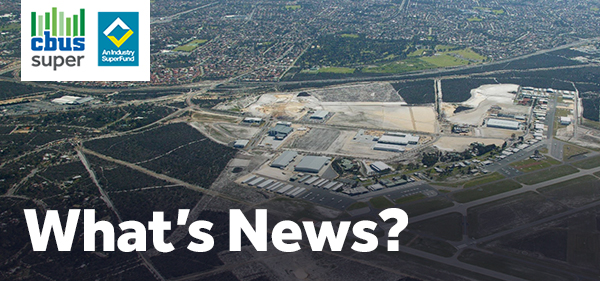
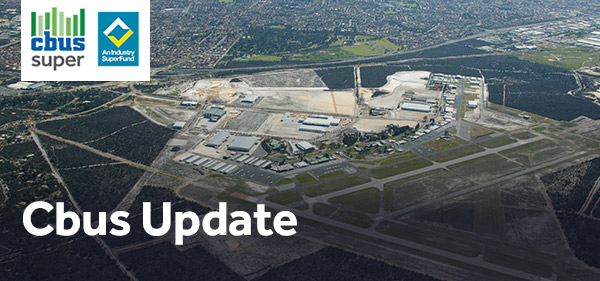
update cbus update

diff --git a/emails/2022/member-retention/ip-warming/index.html b/emails/2022/member-retention/ip-warming/index.html
@@ -49,14 +49,6 @@
 
   <table class="wrapper" style="border-collapse: collapse;table-layout: fixed;min-width: 320px;width: 100%;background-color: #e3e5e8;" cellpadding="0" cellspacing="0" role="presentation"><tbody><tr><td>
 
-  <div role="banner">
-      <!-- pre-header text -->
-      <div style="font-size:1px;line-height:1px;mso-line-height-rule:exactly;display:none;max-width:0px;max-height:0px;opacity:0;overflow:hidden;mso-hide:all;" >
-        Our new Cbus Chair, the Hon Wayne Swan...
-     </div>
-</div>
-
-
 
 <!-- ### START: INTRO BLOCK ### -->
     <div class="layout one-col fixed-width stack" style="Margin: 0 auto;max-width: 600px;min-width: 320px; width: 320px;width: calc(28000% - 167400px);overflow-wrap: break-word;word-wrap: break-word;word-break: break-word;">
@@ -92,7 +84,7 @@
           <!-- hero image -->
           <div style="font-size: 12px;font-style: normal;font-weight: normal;line-height: 19px;" align="center">
             <img style="border: 0;display: block;height: auto;width: 100%;max-width: 600px;font-size: 24px; line-height: 28px; background: #e3ccdb; font-weight: bold;" 
-            alt="What's news?" width="600" 
+            alt="Cbus Update." width="600" 
             src="images/hero.jpg">
           </div>
     
